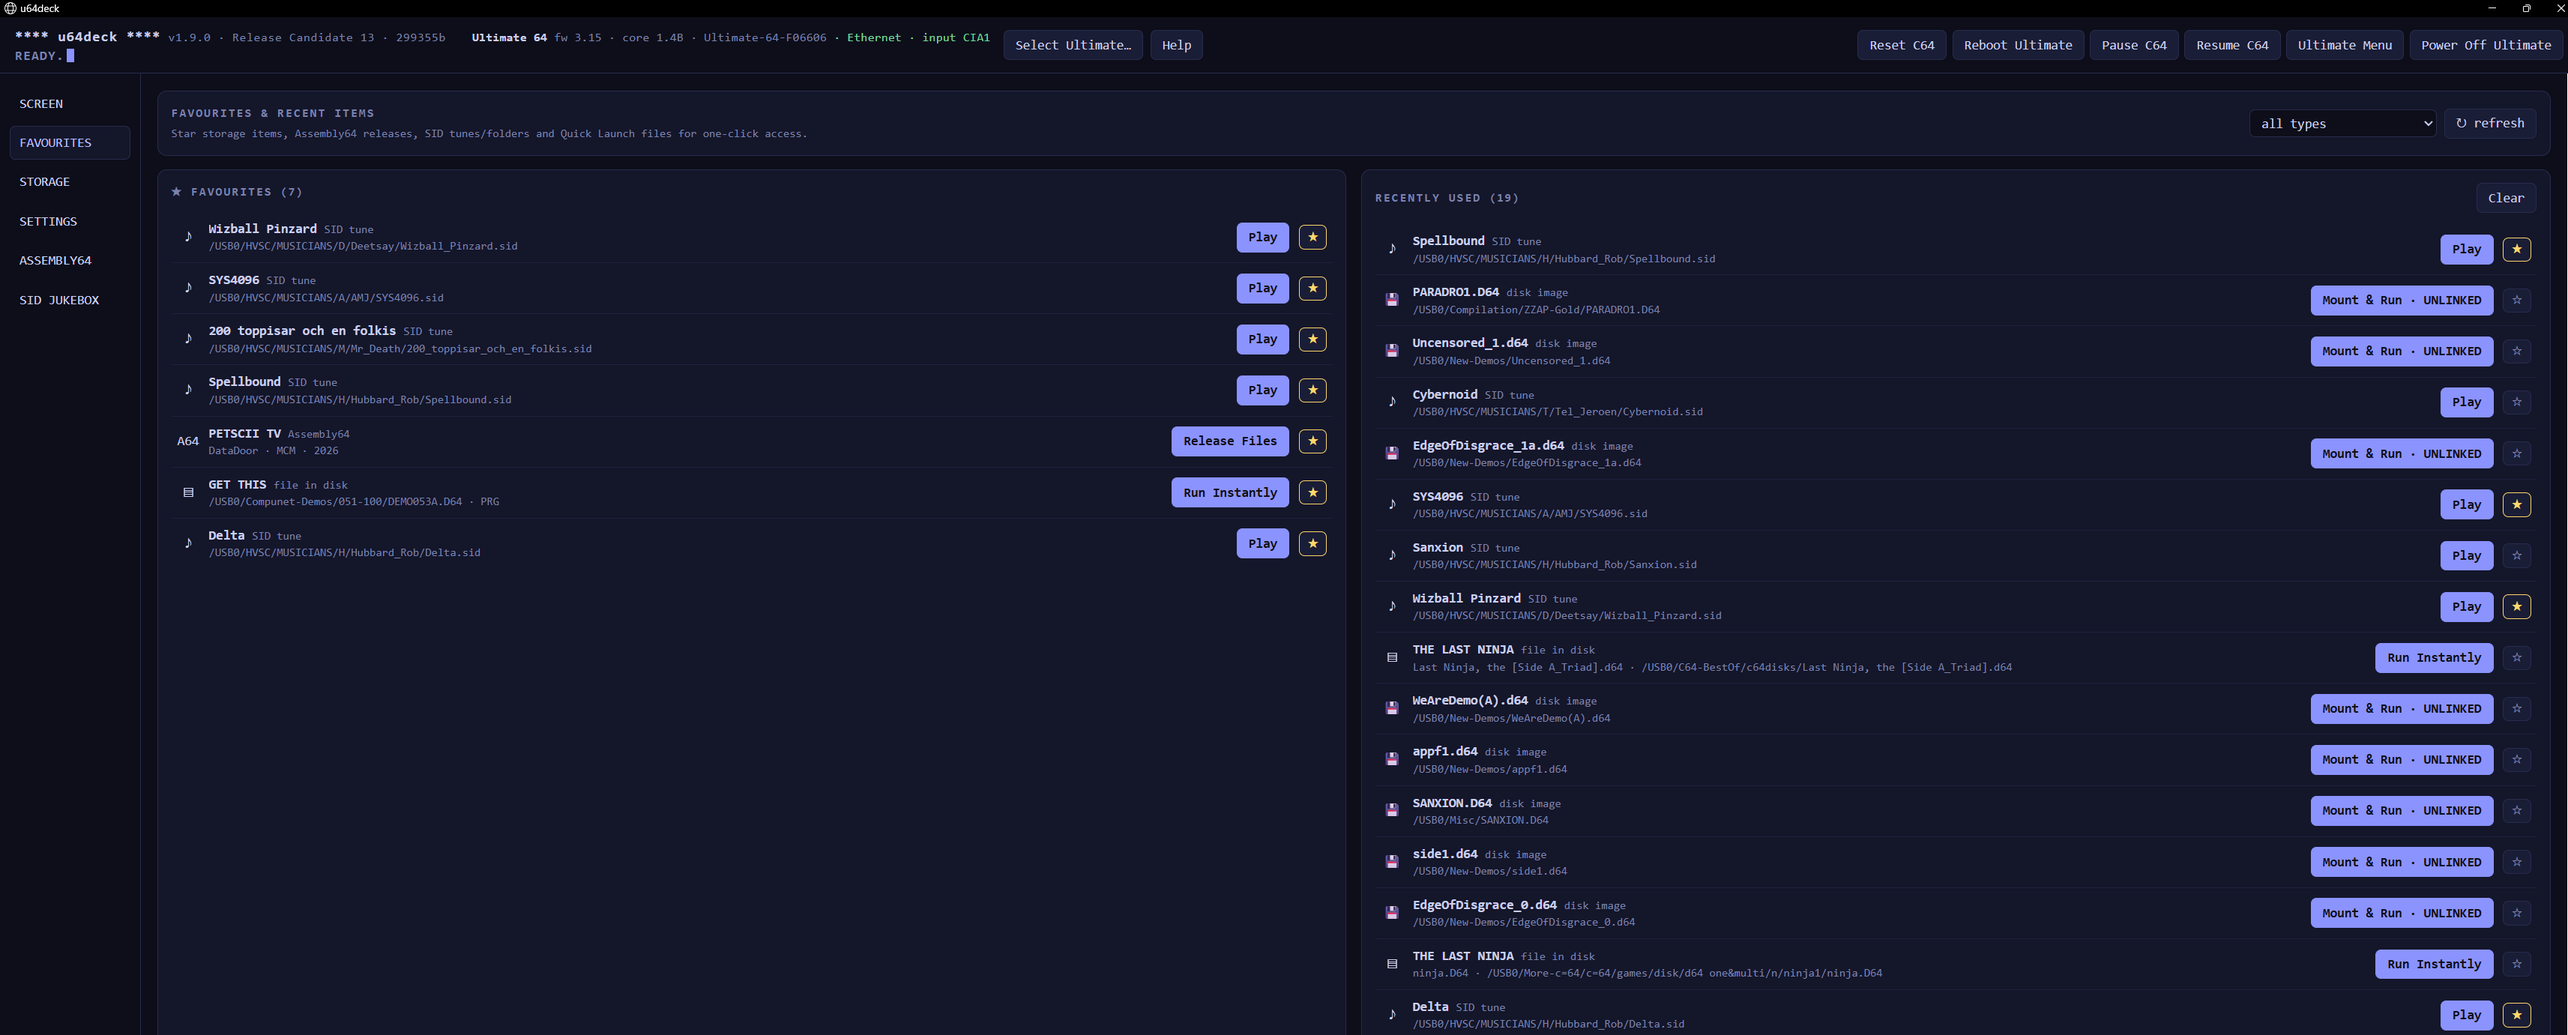
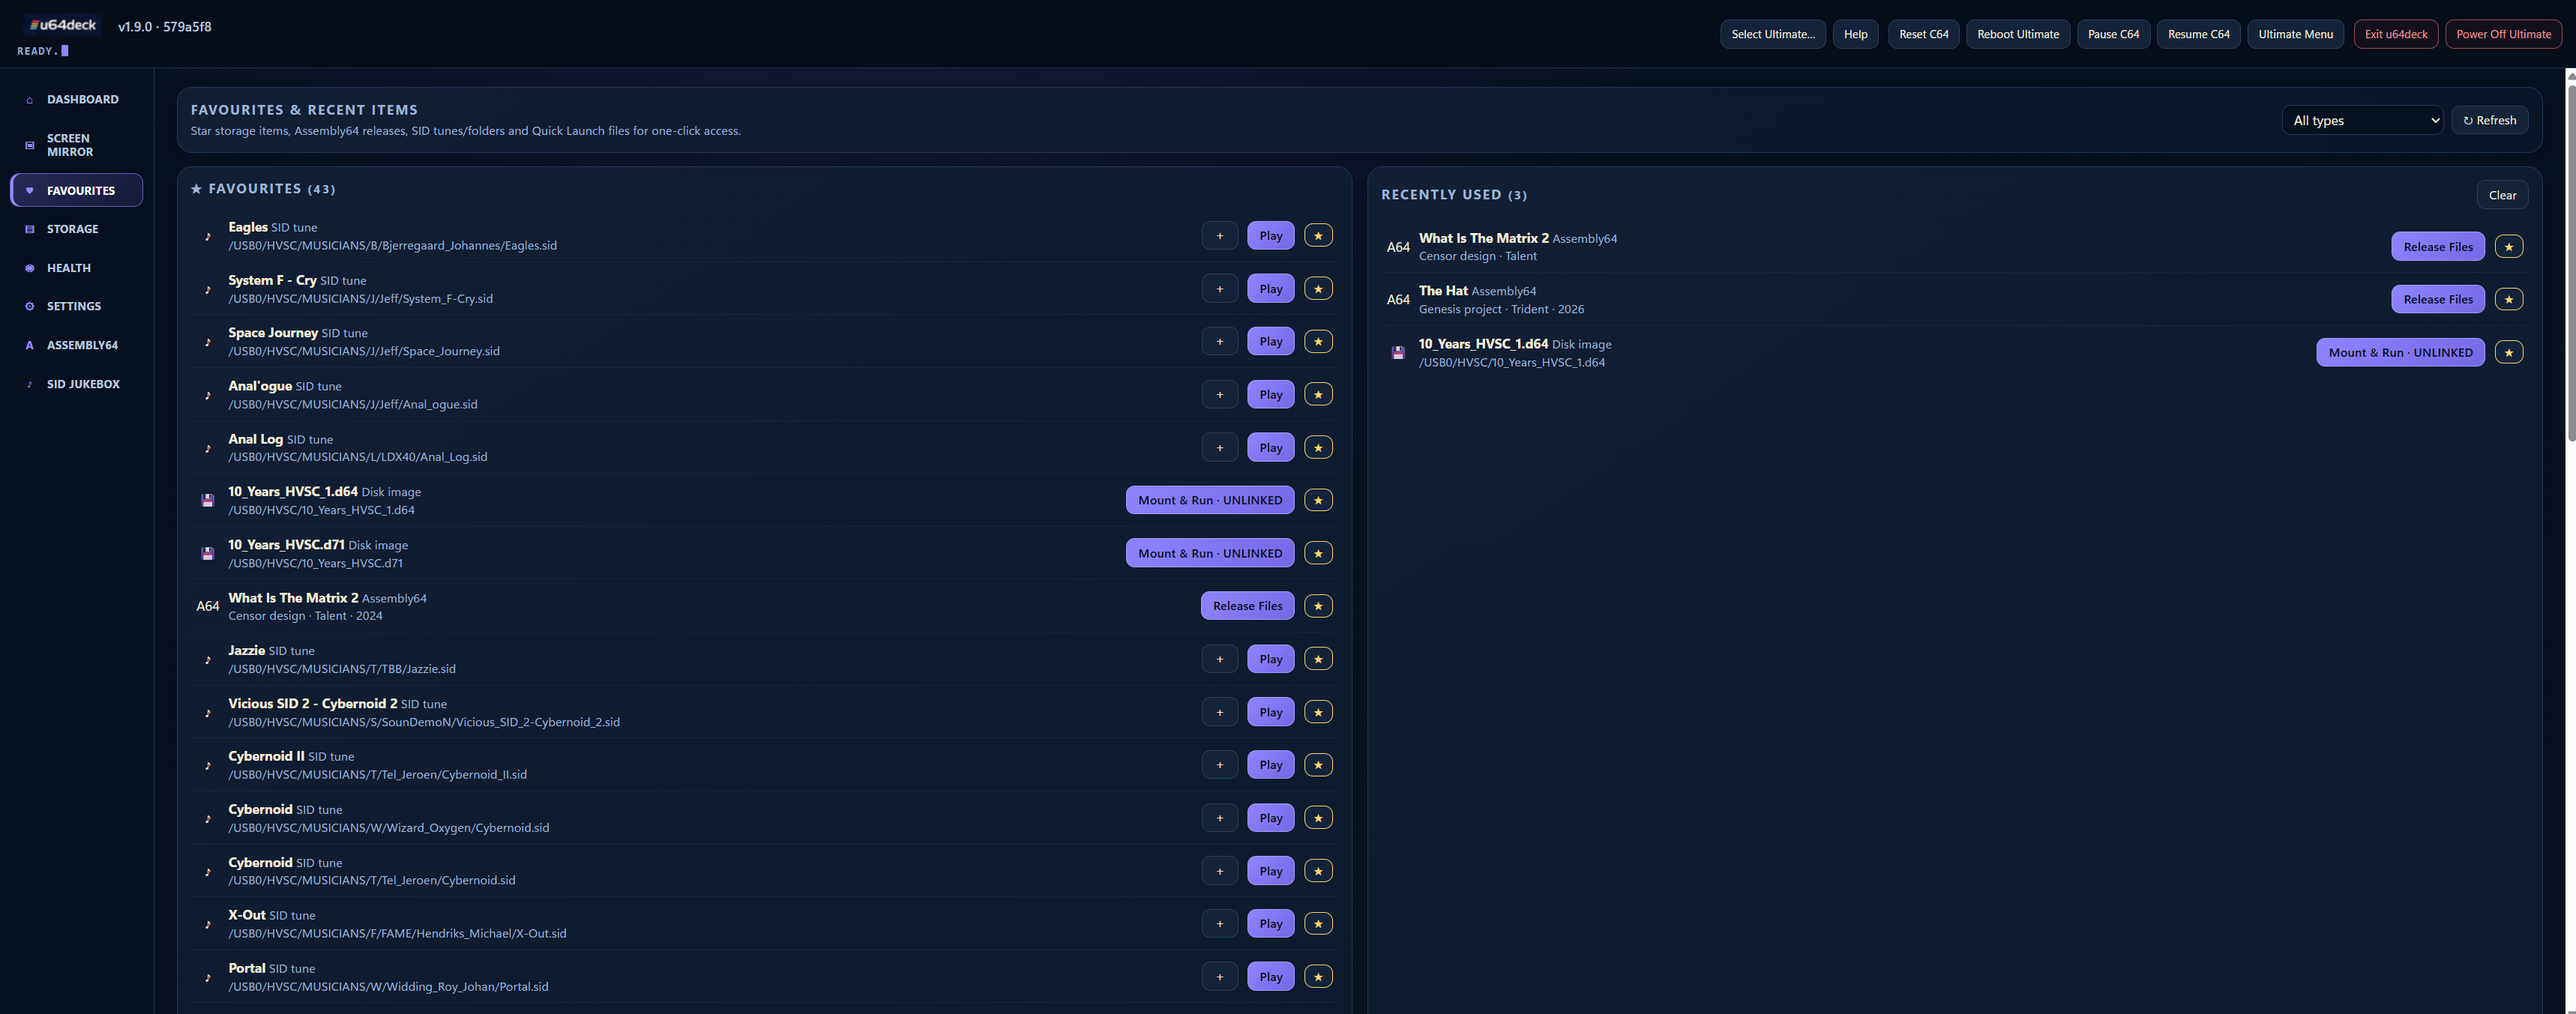
Update screenshots to the redesigned UI; add Dashboard, drop busy-loading

diff --git a/tests/test_core.py b/tests/test_core.py
@@ -4330,7 +4330,6 @@ def test_interface_awareness_help_readme_and_expanded_screenshot_gallery():
     assert "docs/wifi-ethernet-header.png" in readme
     assert "docs/wifi-streaming-gated.png" in readme
     assert "docs/mount-and-run.png" in readme
-    assert "docs/busy-loading.png" in readme
     assert "docs/disk-swap.png" in readme
     assert "Full firmware settings access — every category editable from the browser" in readme
     assert "## Interface-aware Ultimate discovery" in readme

diff --git a/README.md b/README.md
@@ -177,6 +177,9 @@ to use the integration.
 
 ## Screenshots
 
+![Dashboard](docs/dashboard.png)
+*The Dashboard — device, storage, favourites, SID Jukebox and health at a glance, with one-click routes into everything else.*
+
 ![Screen mirror](docs/screen-tab.png)
 *Live VIC screen mirror with a working keyboard, stream controls and recording — the bezel follows the machine's real border colour.*
 
@@ -199,19 +202,16 @@ to use the integration.
 *Find Ultimate Devices — one row per device with verified Ethernet (recommended) and Wi-Fi addresses, deduplicated by unique id.*
 
 ![Wi-Fi and Ethernet header](docs/wifi-ethernet-header.png)
-*Connected header showing the active link type, with one-click Switch to Ethernet when a wired address is known.*
+*The Dashboard device card showing the active link type — u64deck detects and reports whether it is talking to the Ultimate over Ethernet or Wi-Fi.*
 
 ![Split routing](docs/split-route.png)
-*When both interfaces belong to the same Ultimate, media and commands use Ethernet while status polling uses the faster Wi-Fi REST path — shown here as "Ethernet · REST via Wi-Fi" in the header.*
+*When both interfaces belong to the same Ultimate, media and commands use Ethernet while status polling uses the faster Wi-Fi REST path — shown here as "Ethernet · REST via Wi-Fi" on the stream status badge.*
 
 ![Wi-Fi streaming gated](docs/wifi-streaming-gated.png)
-*Screen tab over Wi-Fi: streaming is wired-only, so video, audio and recording are clearly gated while the rest of the app stays available.*
+*Screen Mirror over Wi-Fi: streaming is wired-only, so video, audio and recording are clearly gated — with a one-click Switch to Ethernet — while the rest of the app stays available.*
 
 ![Mount and Run](docs/mount-and-run.png)
-*Mount & Run types LOAD and RUN automatically once the machine is ready, with each readiness gate recorded in Diagnostics.*
-
-![Busy loading](docs/busy-loading.png)
-*Amber “BUSY — loading program…” state during a slow genuine-drive load, keeping the device connected instead of showing a false timeout.*
+*Mount & Run waits for the machine to be ready, then types LOAD and RUN for you. On Legacy-input hardware with a freezer cartridge fitted, it asks for a physical F7 first and continues automatically once BASIC is back.*
 
 ![Disk swap](docs/disk-swap.png)
 *Automatic multi-disk grouping with the swap bar, plus Add to Swap Queue for sets that are intentionally left ungrouped.*
